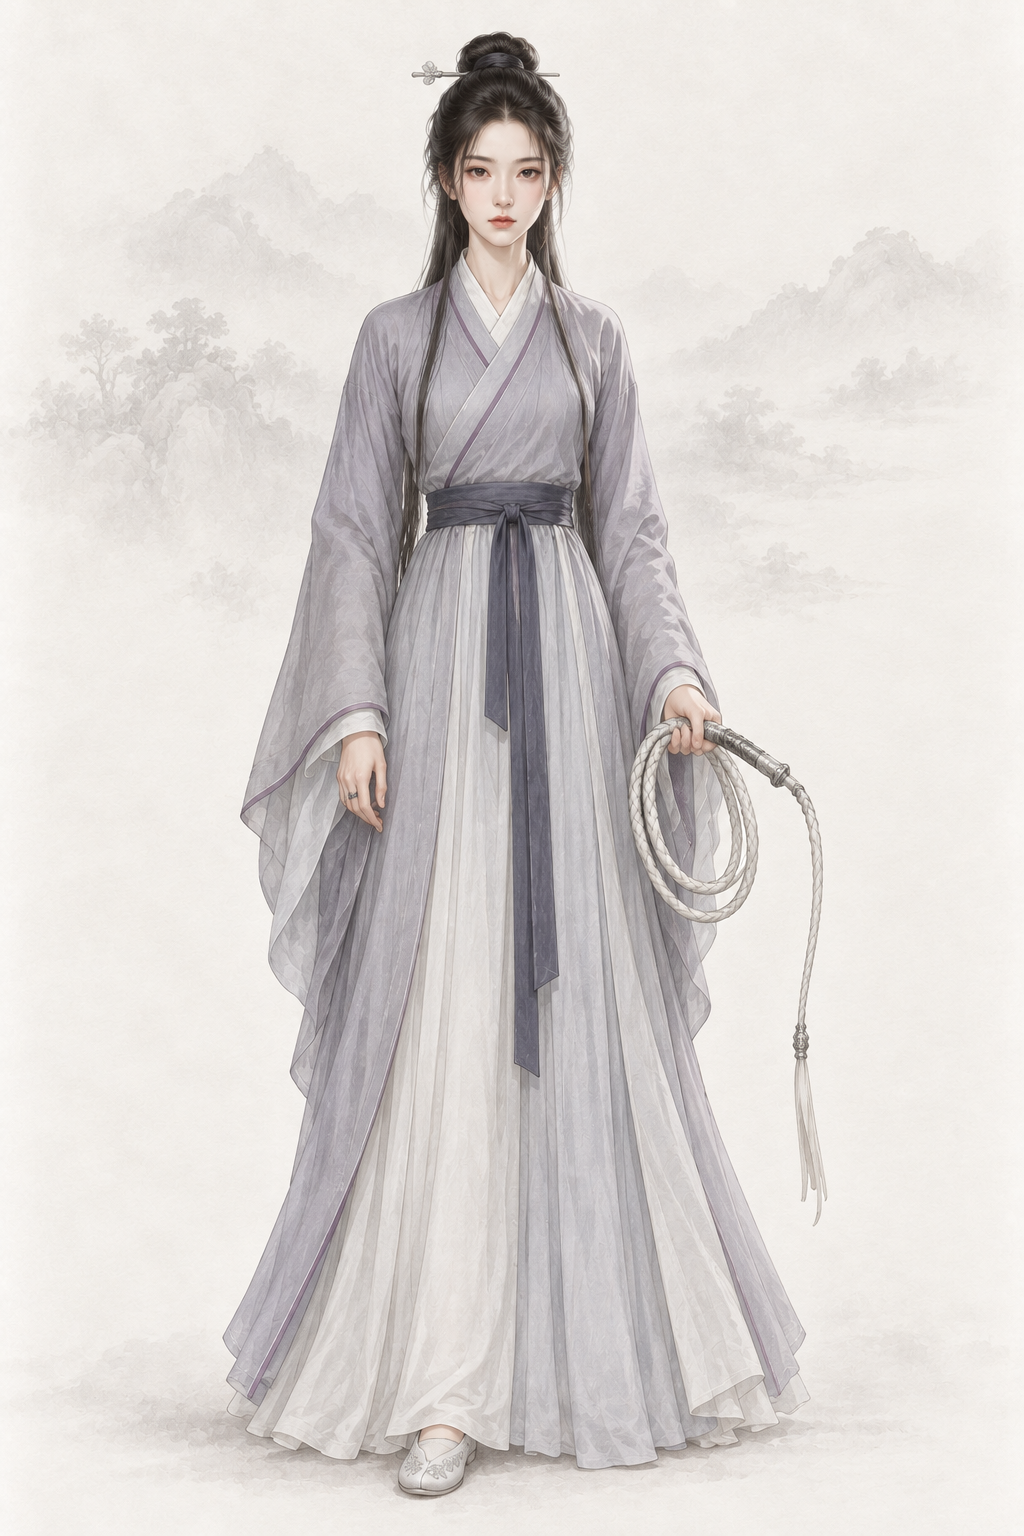
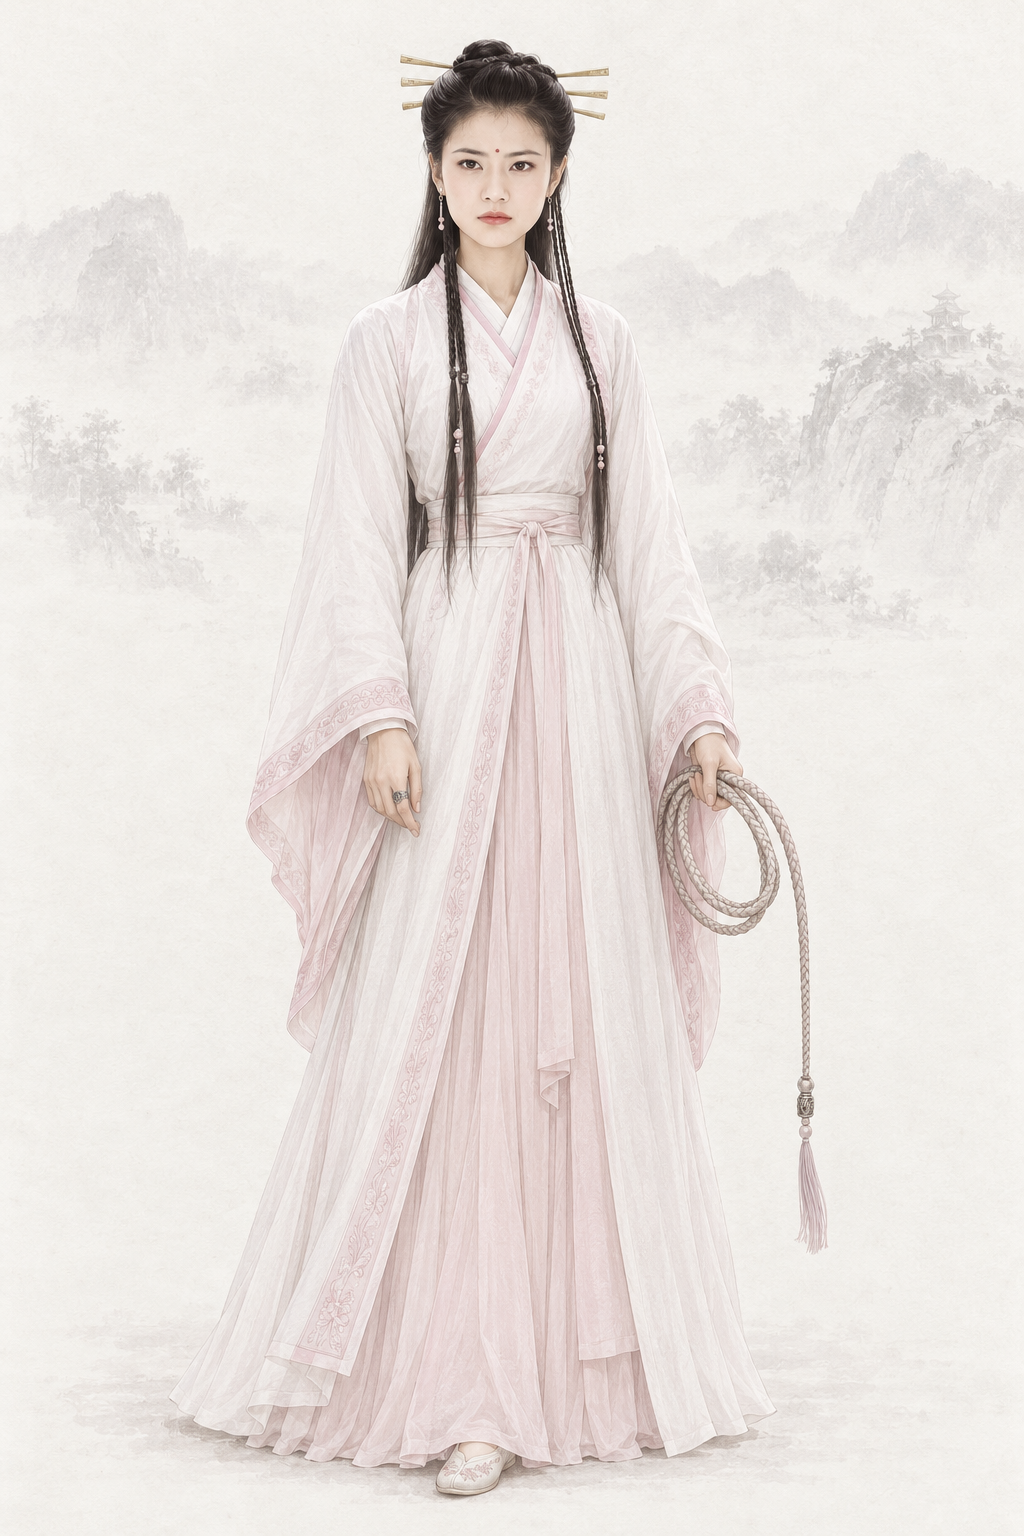
assets(character): por_npc_zhouzhiruo__ch04_youth_zhangmen_base 周芷若（codex，AR-32 经典版）
参考 2003 年苏有朋、贾静雯版《倚天屠龙记》（作者 AR-32 指定） 剧照与项目基线重出；剧照只作出图参考，不入库。

diff --git a/assets/default/prompts/characters/ch04-yitian/npc_zhouzhiruo.md b/assets/default/prompts/characters/ch04-yitian/npc_zhouzhiruo.md
@@ -12,10 +12,19 @@ references:
   - path: assets/default/baseline/character/female/ref_npc_wangyuyan__ch01_base01.png
     use: 当前工作区 manifest 为 approved，已批准；仅参考纸底、左上柔光、笔触与低饱和设色，不沿用脸、体型、服饰或道具
 status: new
-redo_reason: "S 级女主周芷若没有基础立绘（只有场景），青年场景又以童年图作身份来源而偏幼态；按原著“清丽秀雅、容色极美、出尘如仙”原创补出成年峨眉掌门，并带动青年场景重出"
+redo_reason: "AR-32：主要角色参考经典影视版剧照（2003 年版）加基线重出（10-02，7 号出图员）"
 reference_upload:
+- .agents/coord/imagegen-reference/identity-20261002/yitian/zhouzhiruo_2003_gaoyuanyuan_tvsou.jpg
+- .agents/coord/imagegen-reference/identity-20261002/yitian/zhouzhiruo_2003_gaoyuanyuan_sohu2024.jpg
 - assets/default/baseline/character/female/ref_npc_wangyuyan__ch01_base01.png
+- assets/default/baseline/character/female/ref_npc_xiaolongnv__ch03_base01.png
 codex_prompt_rev: 2026-10-02
+classic_ref:
+  version: 2003 年苏有朋、贾静雯版《倚天屠龙记》（作者 AR-32 指定）
+  actor: 高圆圆
+  stills:
+  - .agents/coord/imagegen-reference/identity-20261002/yitian/zhouzhiruo_2003_gaoyuanyuan_tvsou.jpg
+  - .agents/coord/imagegen-reference/identity-20261002/yitian/zhouzhiruo_2003_gaoyuanyuan_sohu2024.jpg
 ---
 
 <!-- full-coverage-import:current-policy:v1 -->
@@ -28,6 +37,27 @@ codex_prompt_rev: 2026-10-02
 # 周芷若 · 《倚天屠龙记》（ch04）
 
 ## Gemini 提示词
+
+> 2026-10-02 AR-32 改写（7 号出图员，codex exec · image_gen 出图）：主要角色参考经典影视版剧照重出——2003 年苏有朋、贾静雯版《倚天屠龙记》（作者 AR-32 指定）。按顺序上传剧照 2 张（zhouzhiruo_2003_gaoyuanyuan_tvsou.jpg、zhouzhiruo_2003_gaoyuanyuan_sohu2024.jpg，在主检出 .agents/coord/imagegen-reference/identity-20261002/，不入库）取发型、服饰、配色、气质与面部特征，再上传两张同性别缩小版基线（放在最后）取画风；要求重新绘制成项目画风，不复制照片。提示词里不写演员名。上一版保留在后文作历史。
+
+```text
+生成一张 2:3 竖幅全身人物立绘：单人、单一视角、完整全身——头顶、双手、双脚和手中器物的两端都在画面内，四周留出自然空白；人物站姿自然，身体基本朝向正面，头部端正（不歪头、不仰不俯），镜头平视。
+【画风】写实手绘古风人物插画，与本项目写实武侠角色立绘同一画风，像功力深厚的画师用细腻笔触画出的真实美人。手绘插画质感，不是 CG 渲染：不要过度光滑的皮肤、完美对称的五官、塑料高光、过度锐利的发丝；保留自然的笔触和细微不完美。肌肤细腻自然，看得见极细的肤理和自然的左右不对称，不磨皮、不油亮、不打粉；头发是一缕缕自然的发丝和少量碎发；布料看得出经纬纹理、厚薄和自然垂坠的褶皱，干净完整；整体设色低饱和、雅致；柔和的自然光从左上方照来，明暗过渡自然，不打舞台光、轮廓光或美颜柔光。不是照片，不是三维渲染，不是动漫或游戏 CG，也不是油画（没有厚涂笔触和画布纹理）。
+【背景】不透明的暖浅灰色纸底，只在远处有极淡的水墨远山和薄雾，大面积留白；人物与背景明暗分明、轮廓边缘干净完整（后续要自动抠图），水墨和纸纹只在背景里，不侵入人物和衣服；脚下只有很淡的一点接触阴影。
+【剧照参考】随提示词上传的第 1、2 张参考图是这个角色经典影视造型的剧照：借鉴其发型、服饰、配色、标志道具、气质和面部特征（脸型、眉眼、鼻唇的比例与神态），让人一眼认出是这个角色；但必须重新绘制成本项目画风的手绘写实插画，不要照片质感，不要照搬剧照的构图、取景、光影、背景和姿势，也不要做成照片修图或磨皮美颜；剧照里的影楼柔光、浓妆、字幕和水印都不要。最后两张是本项目画风基线：画风、用色、光线、质感和暖浅灰纸底加淡水墨背景以它们为准。
+【人物】周芷若，《倚天屠龙记》峨眉派掌门，汉水船家之女、灭绝师太的传人；屠狮大会上的阶段，已暗练九阴白骨爪。外表温婉清丽，内心隐忍要强、有心机。
+【年龄与体态】约二十二三岁的成年女子，身形纤细修长，但有习武的筋骨。成年女性的五官骨相与身体比例（约 7 头身），衣着完整端庄、不透明、不暴露、不性感化。
+【经典造型】照剧照里这一版深入人心的峨眉掌门来画：眉心一点朱砂红点，高髻两侧横插几支细长的金簪，两条细辫从耳后垂到胸前，耳垂坠着细长的耳坠；一身素白衣裙配淡粉镶边；清丽温婉，眉眼间却压着清冷、隐忍和倔强。
+【面容】照剧照的脸型和五官来画：修长的鹅蛋脸、下巴略尖、两腮清瘦；眉毛细长、眉尾微微下压；一双清澈的大眼睛、双眼皮，眼神温婉收敛、隐忍里藏着倔强；鼻梁秀挺；唇形小而饱满、唇色淡红；肤色白皙。清丽绝俗、温婉动人。
+【发式】乌发在头顶盘成端正的高髻，髻的左右两侧各横插三支细长的素金簪（向两边平伸）；额前发际干净，耳后各垂下一条细辫到胸前；眉心一点小小的朱砂红点。
+【服饰】素白交领右衽长衣，衣襟和袖口镶一道淡粉色绣花边，淡粉色内衫、领口合拢，浅粉长裙，素色窄腰带；耳坠是细长的银珠坠。
+【道具】左手松松盘着一条浅色柔韧的长鞭，鞭尾自然垂落、完整入画；右手五指微屈、自然垂在身侧；外露的手指上戴一枚峨眉掌门铁指环。不配倚天剑。
+【姿态与神情】正面站立，神情清冷克制，眼神里压着复杂的心事。
+【不要】画面里不要任何文字、题款、印章、签名、水印、边框、分格或多视图；不要第二个人；不要幼态（童颜、娃娃脸、婴儿肥、儿童或少年身材、大头小身）；不要塑料感皮肤、磨皮美颜、网红脸（尖下巴大眼高鼻的模板脸）、过度对称、浓妆、偶像式打光、蜡像感；不要照片质感、照片修图感、三维渲染或动漫大眼；不要直接复制剧照的画面；不要歪头、斜镜头；不要多指、缺指（设定的伤残除外）、手与器物粘连或悬空；汉式交领必须右衽（穿着者的左襟压在右襟上），不要左衽（设定为少数民族服制的除外），不要水平镜像；不要现代物品、发光特效、法阵或能量光。不要娃娃脸、少女身材；不要倚天剑；不要九阴白骨爪特效、长指甲利爪或血腥；不要与小昭、赵敏撞脸。
+【画风基线】随提示词上传的参考图里，最后两张是本项目的立绘画风基线：只参考它们的画风、用色、光线、质感和暖浅灰纸底加淡水墨的背景处理，整体画风必须与它们一致——精细写实的数字手绘插画，不是油画，不要厚涂笔触和画布纹理。基线图只取画风、光线、质感和背景处理，不取长相：不要照搬基线图里人物的长相、年龄、发型、服饰和姿势。
+```
+
+## 上一版 Gemini 提示词（AR-32 改写前，历史，不再用于出图）
 
 > 2026-10-02 AR-31 改写（1 号出图员，codex exec · image_gen 出图）：重要人物借鉴经典影视造型，只写成文字——不写演员名、不上传剧照、原创面孔；主角和美人画得好看，去 AI 味，禁止幼态。出图时上传两张同性别基线立绘作画风参考（放在最后）。审核组原稿保留在下一节作历史。
 
